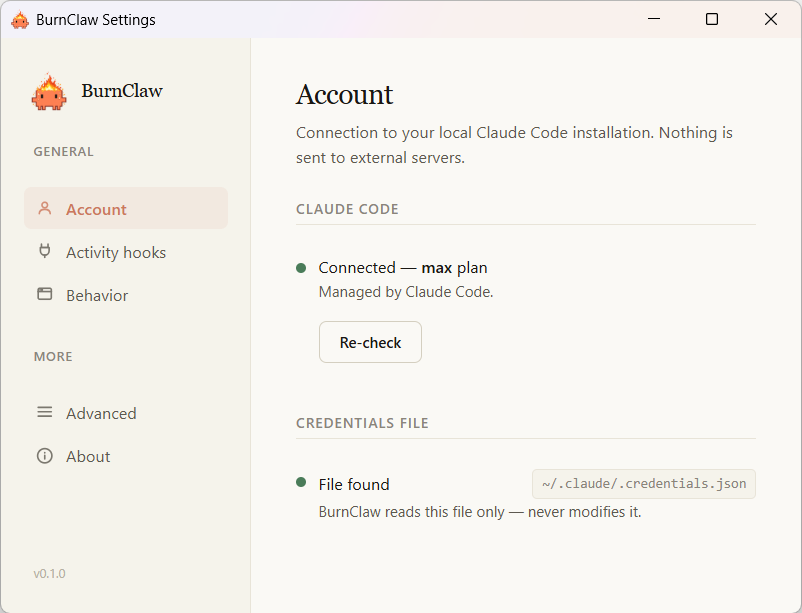
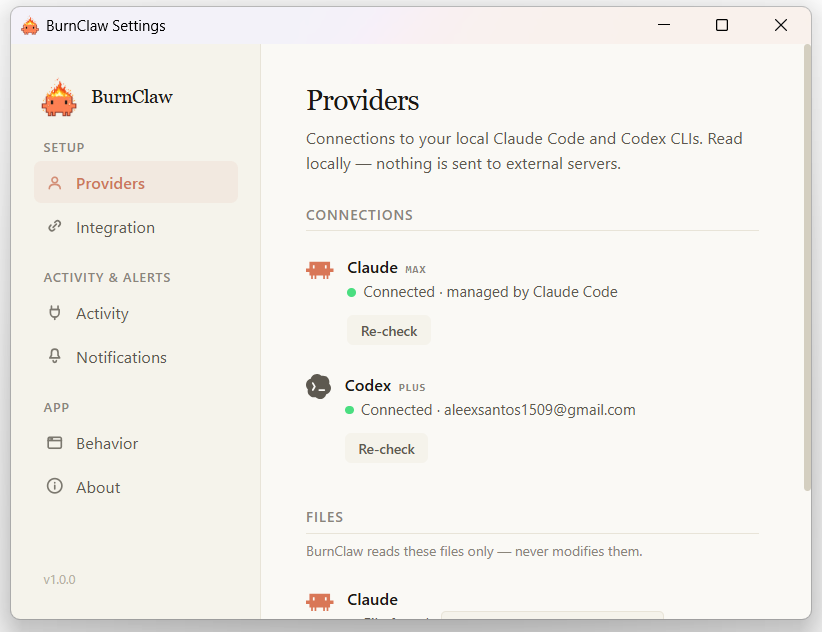
docs: multi-provider README + updated screenshots
Rewrite the README for Claude + Codex (usage, activity, wizard provider
choice, regrouped Settings, combined tray hover) and refresh docs/ captures.

diff --git a/README.md b/README.md
@@ -5,7 +5,7 @@
 <h1 align="center">BurnClaw</h1>
 
 <p align="center">
-  Your Claude usage, live in the Windows system tray.
+  Your Claude and Codex usage, live in the Windows system tray.
 </p>
 
 <p align="center">
@@ -17,17 +17,17 @@
 ---
 
 BurnClaw is a tiny desktop widget that lives in your Windows tray and shows how
-much of your Claude plan you've used — the rolling 5-hour window and the weekly
-window — read straight from the Anthropic API. A quick glance, no terminal, no
-browser tab.
+much of your **Claude** and **OpenAI Codex** plans you've used — the rolling
+5-hour window and the weekly window for each — read straight from their APIs. A
+quick glance, no terminal, no browser tab. Track one provider or both.
 
-It also reflects **Claude Code activity** in real time: while a session is
-running the widget gets an orange border and a small console banner, and you
-get a native notification when Claude finishes or needs you.
+It also reflects **agent activity** in real time: when Claude Code or Codex is
+working, finishes, or needs your input, a small notification slides down under
+the pill (orange for Claude, slate for Codex) and you get a native notification.
 
 > [!NOTE]
 > BurnClaw started as a personal project. It's published so anyone can use it,
-> but it stays Windows-only and relies on an unofficial OAuth approach — see
+> but it stays Windows-only and relies on unofficial endpoints — see
 > [How it works](#how-it-works) before you depend on it.
 
 ## Contents
@@ -37,7 +37,7 @@ get a native notification when Claude finishes or needs you.
 - [Requirements](#requirements)
 - [Install](#install)
 - [First run](#first-run)
-- [Activity hooks](#activity-hooks)
+- [Activity](#activity)
 - [Settings](#settings)
 - [Three signals, never mixed](#three-signals-never-mixed)
 - [Tray icon](#tray-icon)
@@ -49,54 +49,57 @@ get a native notification when Claude finishes or needs you.
 BurnClaw is a single window that morphs between two states. Click the pill to
 expand it; click the **✕** to collapse it back.
 
-<!-- capture: the collapsed pill — status dot + two progress rings (session, weekly) -->
-<!-- capture: the expanded widget — header, both metric bars with resets, footer -->
+<!-- capture: the collapsed pill — status dot + one concentric dual-ring per provider (brand icon centered) -->
+<!-- capture: the expanded widget — a block per provider (icon, name, plan) with session/weekly bars -->
 
 | Pill (collapsed) | Widget (expanded) |
 | :---: | :---: |
 | <img src="docs/pill.png" alt="Pill state" /> | <img src="docs/widget.png" alt="Widget state" /> |
 
-The **pill** is a status dot plus two rings: the 5-hour session window and the
-7-day weekly window. The **widget** breaks the same numbers out with progress
-bars, reset countdowns, a `DOMINANT` tag on whichever window Anthropic is
-currently enforcing, and a refresh button.
+The **pill** shows a status dot plus one ring per tracked provider — two
+concentric arcs, the 5-hour window outside and the 7-day window inside, with the
+provider's icon in the centre. The **widget** breaks the same numbers out per
+provider with progress bars, reset countdowns, a `DOMINANT` tag on whichever
+window Anthropic is currently enforcing (Claude only), and a refresh button.
 
 ## How it works
 
-Anthropic exposes a unified usage figure through the
+**Claude.** Anthropic exposes a unified usage figure through the
 `anthropic-ratelimit-unified-*` response headers — but only when you
-authenticate as Claude Code. A normal API key doesn't get them.
+authenticate as Claude Code. So BurnClaw **reuses the OAuth token Claude Code
+already stores** (`%USERPROFILE%\.claude\.credentials.json`). Once a minute it
+makes a minimal request to `api.anthropic.com` with the cheapest model
+(Haiku, `max_tokens: 1`) and reads the rate-limit headers off the response.
 
-So BurnClaw **reuses the OAuth token that Claude Code already stores** on your
-machine (`%USERPROFILE%\.claude\.credentials.json`). Once a minute it makes a
-minimal request to `api.anthropic.com` using the cheapest model
-(Haiku, `max_tokens: 1`), reads the rate-limit headers off the response, and
-updates the tray. That's roughly 3% of a Max 5x session window per day — small,
-but not zero, and configurable down further in Settings.
+**Codex.** BurnClaw reads the token Codex CLI stores
+(`%USERPROFILE%\.codex\auth.json`) and queries the same internal usage endpoint
+Codex clients use (`chatgpt.com/backend-api/wham/usage`). This is a **read-only**
+call — it returns your usage directly and costs **no quota**.
 
-The only network calls BurnClaw makes are to `api.anthropic.com` (usage) and
+The only network calls BurnClaw makes are to those usage endpoints and to
 `status.claude.com` (service status). No telemetry, no analytics, no servers of
-its own. It reads `.credentials.json` — it never modifies it.
+its own. It reads the credential files — it never modifies them.
 
 > [!WARNING]
-> **This is an unofficial approach.** Using Claude Code's OAuth token from a
-> client that isn't Claude Code is an undocumented, ToS-gray area. Anthropic
-> could block it at any time — they've changed similar things before. If
-> BurnClaw suddenly stops working with an auth error, that's almost certainly
-> why. For personal, low-frequency use the risk is low, but it's a risk you're
-> accepting.
+> **These are unofficial approaches.** Using Claude Code's OAuth token, or
+> Codex's internal usage endpoint, from a client that isn't the official CLI is
+> undocumented, ToS-gray territory. Either provider could block it at any time —
+> they've changed similar things before. If BurnClaw suddenly stops working with
+> an auth error, that's almost certainly why. For personal, low-frequency use
+> the risk is low, but it's a risk you're accepting.
 
 ## Requirements
 
 - **Windows 10 or 11.**
-- **Claude Code installed and logged in.** BurnClaw doesn't care whether you're
-  on Pro or Max — it just needs the OAuth token that `claude login` produces.
+- **Claude Code and/or Codex CLI installed and logged in.** BurnClaw doesn't
+  care which plan you're on — it just needs the OAuth token that `claude login`
+  / `codex login` produces. Track either provider, or both.
 
 ## Install
 
 Download the latest installer from the
 [**Releases**](https://github.com/asantinos/burnclaw/releases) page, run it,
-and BurnClaw appears in your tray.
+and BurnClaw appears in your tray. (Per-user install, no admin needed.)
 
 <details>
 <summary>Build from source</summary>
@@ -125,52 +128,60 @@ bun run tauri build
 
 On first launch you'll get a short setup wizard:
 
-<!-- capture: the setup wizard, e.g. the Connection step showing "Connected — max plan" -->
+<!-- capture: the setup wizard — the Welcome step with the Claude / Codex / Both selector -->
 <img src="docs/wizard.png" alt="Setup wizard" />
 
-1. **Welcome** — what BurnClaw is.
-2. **Connection** — checks that Claude Code is signed in. If not, it can open
-   `claude login` for you.
-3. **Activity hooks** — optionally wires up the Claude Code integration (see
-   below). You can skip this and do it later.
+1. **Welcome** — pick what to track: **Claude**, **Codex**, or **both**.
+   BurnClaw auto-detects which CLIs you have installed and preselects them.
+2. **Connection** — checks each chosen provider is signed in. If not, it can
+   open `claude login` / `codex login` for you.
+3. **Activity** — optionally wires up the integration (see below). You can skip
+   this and do it later.
 4. **Preferences** — start with Windows, polling interval.
 
 When you're done, the pill appears next to the tray.
 
-## Activity hooks
+## Activity
 
-This is the optional part that makes the widget react to Claude Code in real
-time. BurnClaw runs a tiny HTTP server on `127.0.0.1:9876` (localhost only,
-never exposed to the network) and Claude Code pings it on lifecycle events —
-session start, tool calls, input requests, stop.
+The optional part that makes the widget react in real time. BurnClaw runs a tiny
+HTTP server on `127.0.0.1:9876` (localhost only, never exposed to the network).
 
-| Pill | Widget |
-| :---: | :---: |
-| <img src="docs/activity.png" alt="Pill during Claude Code activity" /> | <img src="docs/activity-widget.png" alt="Widget during Claude Code activity" /> |
+- **Claude Code** pings it directly via hooks (session start, tool calls, input
+  requests, stop).
+- **Codex** calls it through its `notify` command — BurnClaw registers itself as
+  the notify handler and forwards the event.
 
-While a session runs the border turns orange. Expanded, the widget also shows a
-console banner with what Claude is doing right now, and you get a native
-notification when Claude finishes or is waiting for you.
+| Needs you | Finished | Widget |
+| :---: | :---: | :---: |
+| <img src="docs/activity-1.png" alt="Pill — Claude needs you" /> | <img src="docs/activity-2.png" alt="Pill — Claude finished" /> | <img src="docs/activity-widget.png" alt="Widget during agent activity" /> |
 
-The wizard can install the hooks for you (it merges into your
-`~/.claude/settings.json` and keeps a `.bak`, never overwriting hooks you
-already have). To do it by hand, or to understand exactly what gets added, see
-[HOOKS_SETUP.md](HOOKS_SETUP.md).
+When an agent is active, a notification slides down under the pill — **orange for
+Claude, slate for Codex** — with what it's doing ("working…", "needs you",
+"finished"). You choose which events trigger it, per provider, and how long it
+stays, in Settings. Expanded, the widget also shows a console banner, and you
+get a native OS notification when an agent finishes or is waiting for you.
+
+The wizard (or **Settings → Integration**) can install this for you: Claude's
+hooks merge into `~/.claude/settings.json`, Codex's handler into
+`~/.codex/config.toml` — both with a `.bak` backup, never clobbering what you
+already have. For the Claude hooks by hand, see [HOOKS_SETUP.md](HOOKS_SETUP.md).
 
 ## Settings
 
 Right-click the tray icon → **Settings**. Everything applies live — no restart.
 
-<!-- capture: the Settings window, e.g. the Advanced section with thresholds + notification toggles -->
+<!-- capture: the Settings window — the Providers section showing both Claude and Codex connected -->
 <img src="docs/settings.png" alt="Settings window" />
 
-- **Account** — connection status and the credentials file BurnClaw reads.
-- **Activity hooks** — install/remove the hooks, toggle the orange border and
-  console banner.
+- **Providers** — connection status, plan and credential file for Claude and
+  Codex.
+- **Integration** — install/remove Claude Code hooks and the Codex notify
+  handler.
+- **Activity** — the slide-down pill panel (enable per provider, pick which
+  events, auto-dismiss timing) and the widget console banner.
+- **Notifications** — usage thresholds and per-type native notification toggles.
 - **Behavior** — start with Windows, start mode, polling interval.
-- **Advanced** — notification thresholds, per-type notification toggles, log
-  files, and a full reset.
-- **About** — version, license, links.
+- **About** — version, links, logs, and a full reset.
 
 ## Three signals, never mixed
 
@@ -180,12 +191,13 @@ channels on purpose — they never share an element:
 | Signal | Where it shows |
 | --- | --- |
 | **Usage** | Pill rings / widget bars, and the tray icon color |
-| **Claude service status** | The status dot (from `status.claude.com`) |
-| **Claude Code activity** | Orange border + console banner |
+| **Service status** | The status dot (from `status.claude.com`) |
+| **Agent activity** | The slide-down pill panel + console banner |
 
 ## Tray icon
 
-The tray icon color follows the **higher** of your two usage windows:
+The tray icon color follows the **highest** usage window across every tracked
+provider:
 
 | Usage | Icon | Notification |
 | --- | :---: | --- |
@@ -198,9 +210,9 @@ The tray icon color follows the **higher** of your two usage windows:
 - **Left-click** the tray icon to show/hide the window.
 - **Right-click** for *Refresh now*, *Settings*, *Quit*.
 
-Hovering the icon shows a plain-text summary (`Session 47% · Weekly 28% · Resets
-in 2h 14m`). The thresholds and which notifications fire are configurable in
-Settings.
+Hovering the icon shows a plain-text summary, one line per provider
+(`Claude · 5h 25% (2h 14m)`). The thresholds and which notifications fire are
+configurable in Settings.
 
 ## Tech stack
 
